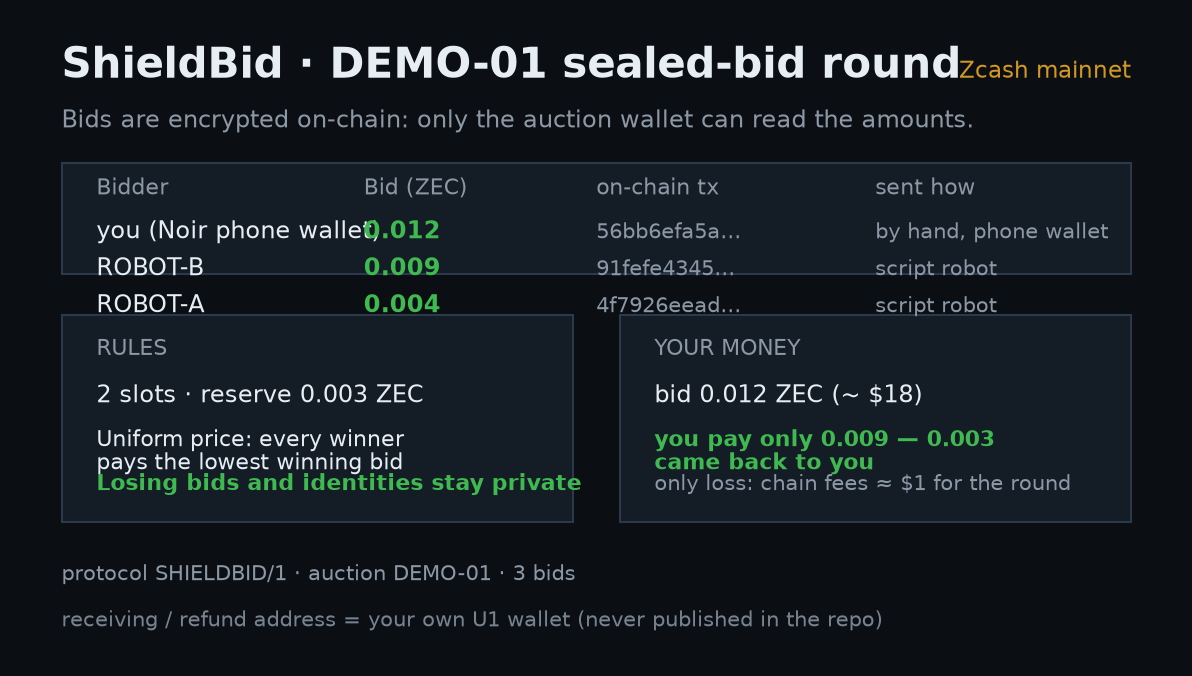
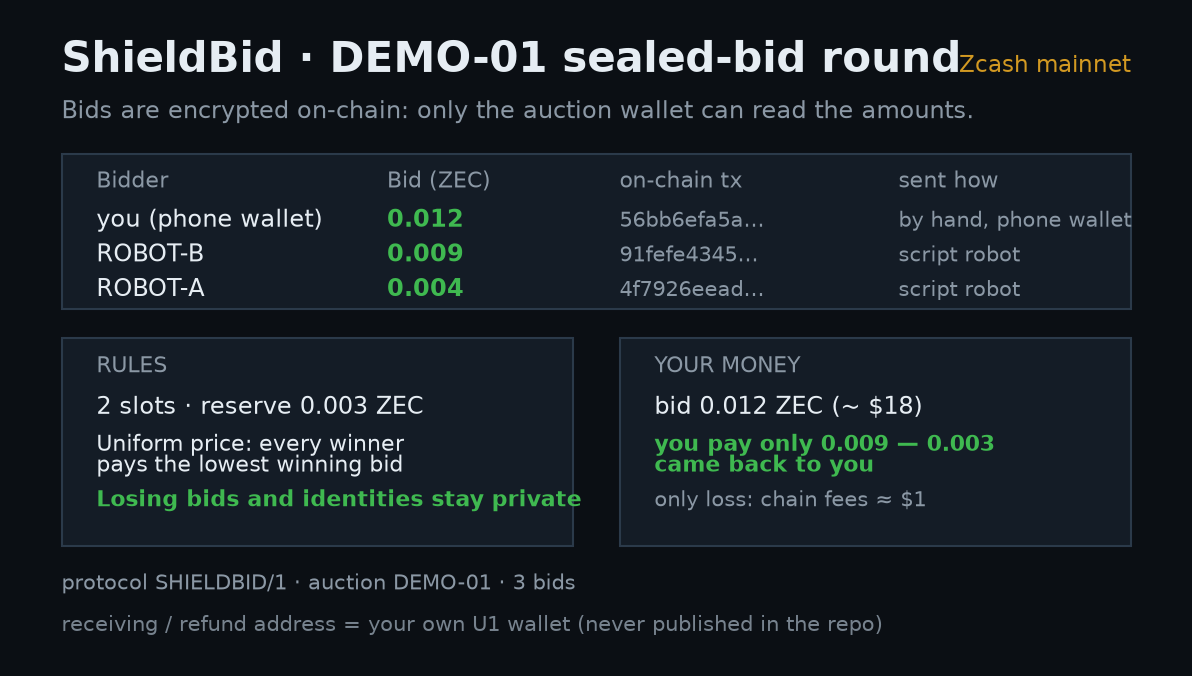
fix(card): keep all three bid rows inside the status-card table box; shorten the bidder label

diff --git a/tools/make_status_card.py b/tools/make_status_card.py
@@ -16,7 +16,7 @@ OUT = REPO / "docs" / "demo01_status.png"
 BG, BOX, EDGE = "#0b0f14", "#141c26", "#2b3a4a"
 TXT, DIM, GOOD, WARN = "#e6edf3", "#8b98a5", "#3fb950", "#d29922"
 
-NAME = {"USER@Noir": "you (Noir phone wallet)"}
+NAME = {"USER@Noir": "you (phone wallet)"}
 
 fig, ax = plt.subplots(figsize=(10, 5.6), dpi=150)
 fig.patch.set_facecolor(BG)
@@ -25,41 +25,42 @@ ax.set_xlim(0, 100)
 ax.set_ylim(0, 56)
 ax.axis("off")
 
-ax.text(4, 50.5, "ShieldBid · DEMO-01 sealed-bid round", color=TXT, fontsize=20, weight="bold")
-ax.text(4, 46.2, "Bids are encrypted on-chain: only the auction wallet can read the amounts.",
+ax.text(4, 51, "ShieldBid · DEMO-01 sealed-bid round", color=TXT, fontsize=20, weight="bold")
+ax.text(4, 47, "Bids are encrypted on-chain: only the auction wallet can read the amounts.",
         color=DIM, fontsize=11.5)
-ax.text(96, 50.5, "Zcash mainnet", color=WARN, fontsize=11, ha="right")
+ax.text(96, 51, "Zcash mainnet", color=WARN, fontsize=11, ha="right")
 
-ax.add_patch(plt.Rectangle((4, 33.5), 92, 9.6, facecolor=BOX, edgecolor=EDGE, lw=1))
-cols = [(7, "Bidder"), (30, "Bid (ZEC)"), (50, "on-chain tx"), (74, "sent how")]
+# bid table: box must contain the header row and all bid rows
+ax.add_patch(plt.Rectangle((4, 30.5), 92, 13.4, facecolor=BOX, edgecolor=EDGE, lw=1))
+cols = [(7, "Bidder"), (32, "Bid (ZEC)"), (52, "on-chain tx"), (76, "sent how")]
 for x, h in cols:
-    ax.text(x, 40.4, h, color=DIM, fontsize=10.5)
-y = 36.6
+    ax.text(x, 41.0, h, color=DIM, fontsize=10.5)
+y = 37.6
 for b in LED["bids"]:
     ax.text(7, y, NAME.get(b["bidder"], b["bidder"]), color=TXT, fontsize=11.5)
-    ax.text(30, y, f"{b['amount']}", color=GOOD, fontsize=11.5, weight="bold")
-    ax.text(50, y, f"{b['txid'][:10]}…", color=DIM, fontsize=10)
+    ax.text(32, y, f"{b['amount']}", color=GOOD, fontsize=11.5, weight="bold")
+    ax.text(52, y, f"{b['txid'][:10]}…", color=DIM, fontsize=10)
     src = "by hand, phone wallet" if b["bidder"].startswith("USER") else "script robot"
-    ax.text(74, y, src, color=DIM, fontsize=10)
-    y -= 3.2
+    ax.text(76, y, src, color=DIM, fontsize=10)
+    y -= 3.0
 
-ax.add_patch(plt.Rectangle((4, 12), 44, 18, facecolor=BOX, edgecolor=EDGE, lw=1))
-ax.text(7, 26.5, "RULES", color=DIM, fontsize=10.5)
-ax.text(7, 22.4, f"{LED['slots']} slots · reserve {LED['reserve']} ZEC", color=TXT, fontsize=11.5)
-ax.text(7, 18.6, "Uniform price: every winner", color=TXT, fontsize=10.5)
-ax.text(7, 16.6, "pays the lowest winning bid", color=TXT, fontsize=10.5)
-ax.text(7, 14.8, "Losing bids and identities stay private", color=GOOD, fontsize=10.5, weight="bold")
+ax.add_patch(plt.Rectangle((4, 10), 44, 18, facecolor=BOX, edgecolor=EDGE, lw=1))
+ax.text(7, 25.0, "RULES", color=DIM, fontsize=10.5)
+ax.text(7, 21.4, f"{LED['slots']} slots · reserve {LED['reserve']} ZEC", color=TXT, fontsize=11.5)
+ax.text(7, 18.2, "Uniform price: every winner", color=TXT, fontsize=10.5)
+ax.text(7, 16.4, "pays the lowest winning bid", color=TXT, fontsize=10.5)
+ax.text(7, 13.4, "Losing bids and identities stay private", color=GOOD, fontsize=10.5, weight="bold")
 
-ax.add_patch(plt.Rectangle((52, 12), 44, 18, facecolor=BOX, edgecolor=EDGE, lw=1))
-ax.text(55, 26.5, "YOUR MONEY", color=DIM, fontsize=10.5)
-ax.text(55, 22.4, "bid 0.012 ZEC (~ $18)", color=TXT, fontsize=11.5)
-ax.text(55, 18.6, "you pay only 0.009 — 0.003", color=GOOD, fontsize=10.5, weight="bold")
-ax.text(55, 16.6, "came back to you", color=GOOD, fontsize=10.5, weight="bold")
-ax.text(55, 14.8, "only loss: chain fees ≈ $1 for the round", color=DIM, fontsize=10)
+ax.add_patch(plt.Rectangle((52, 10), 44, 18, facecolor=BOX, edgecolor=EDGE, lw=1))
+ax.text(55, 25.0, "YOUR MONEY", color=DIM, fontsize=10.5)
+ax.text(55, 21.4, "bid 0.012 ZEC (~ $18)", color=TXT, fontsize=11.5)
+ax.text(55, 18.2, "you pay only 0.009 — 0.003", color=GOOD, fontsize=10.5, weight="bold")
+ax.text(55, 16.4, "came back to you", color=GOOD, fontsize=10.5, weight="bold")
+ax.text(55, 13.4, "only loss: chain fees ≈ $1", color=DIM, fontsize=10)
 
-ax.text(4, 7, f"protocol SHIELDBID/1 · auction {LED['auction_id']} · {len(LED['bids'])} bids",
+ax.text(4, 6.2, f"protocol SHIELDBID/1 · auction {LED['auction_id']} · {len(LED['bids'])} bids",
         color=DIM, fontsize=10)
-ax.text(4, 3, "receiving / refund address = your own U1 wallet (never published in the repo)",
+ax.text(4, 2.6, "receiving / refund address = your own U1 wallet (never published in the repo)",
         color=DIM, fontsize=10, alpha=0.85)
 
 fig.savefig(OUT, facecolor=BG, bbox_inches="tight")
